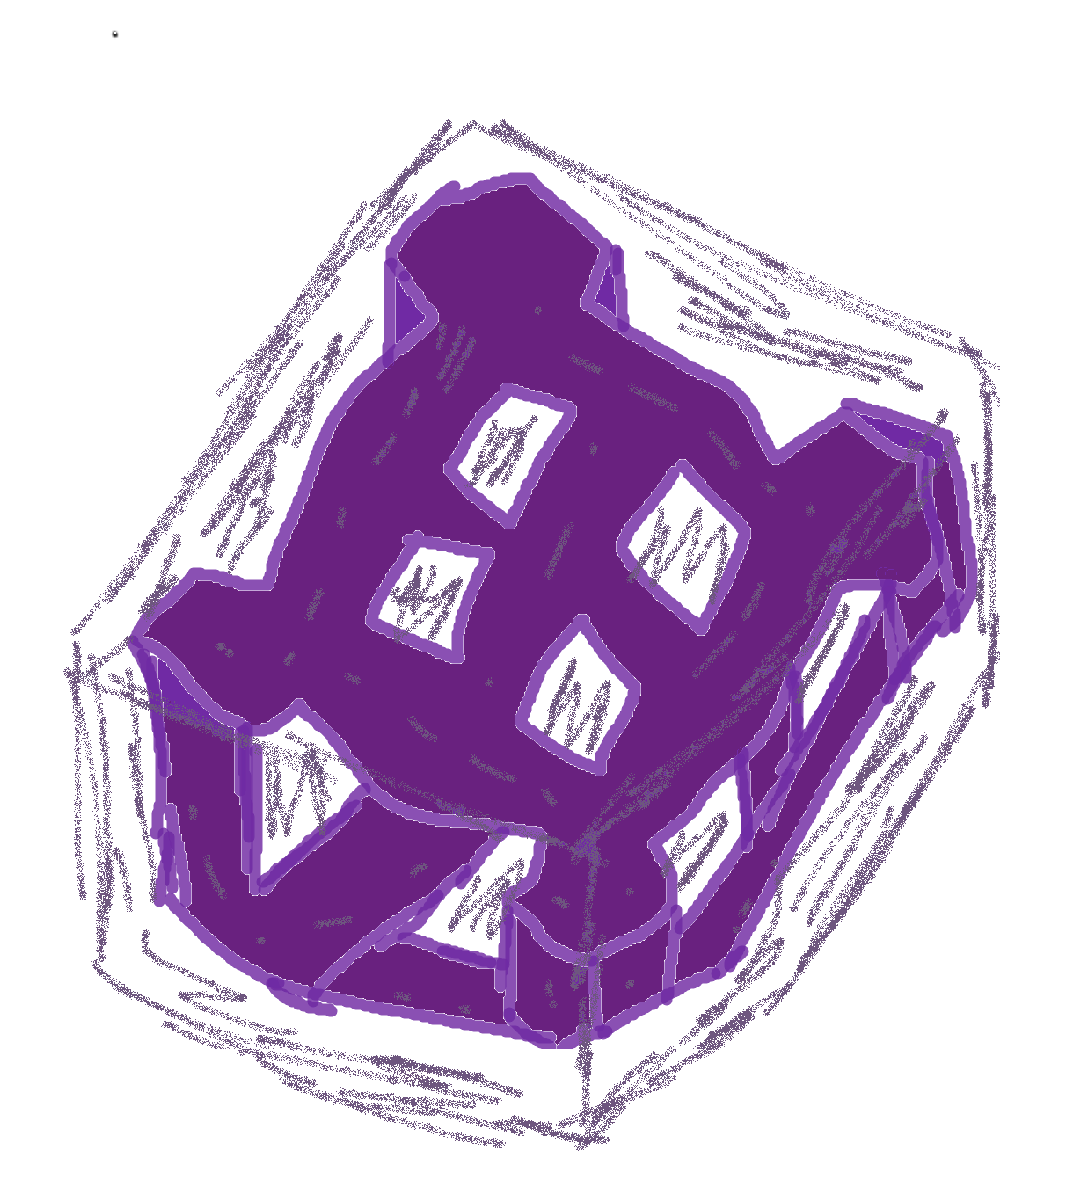
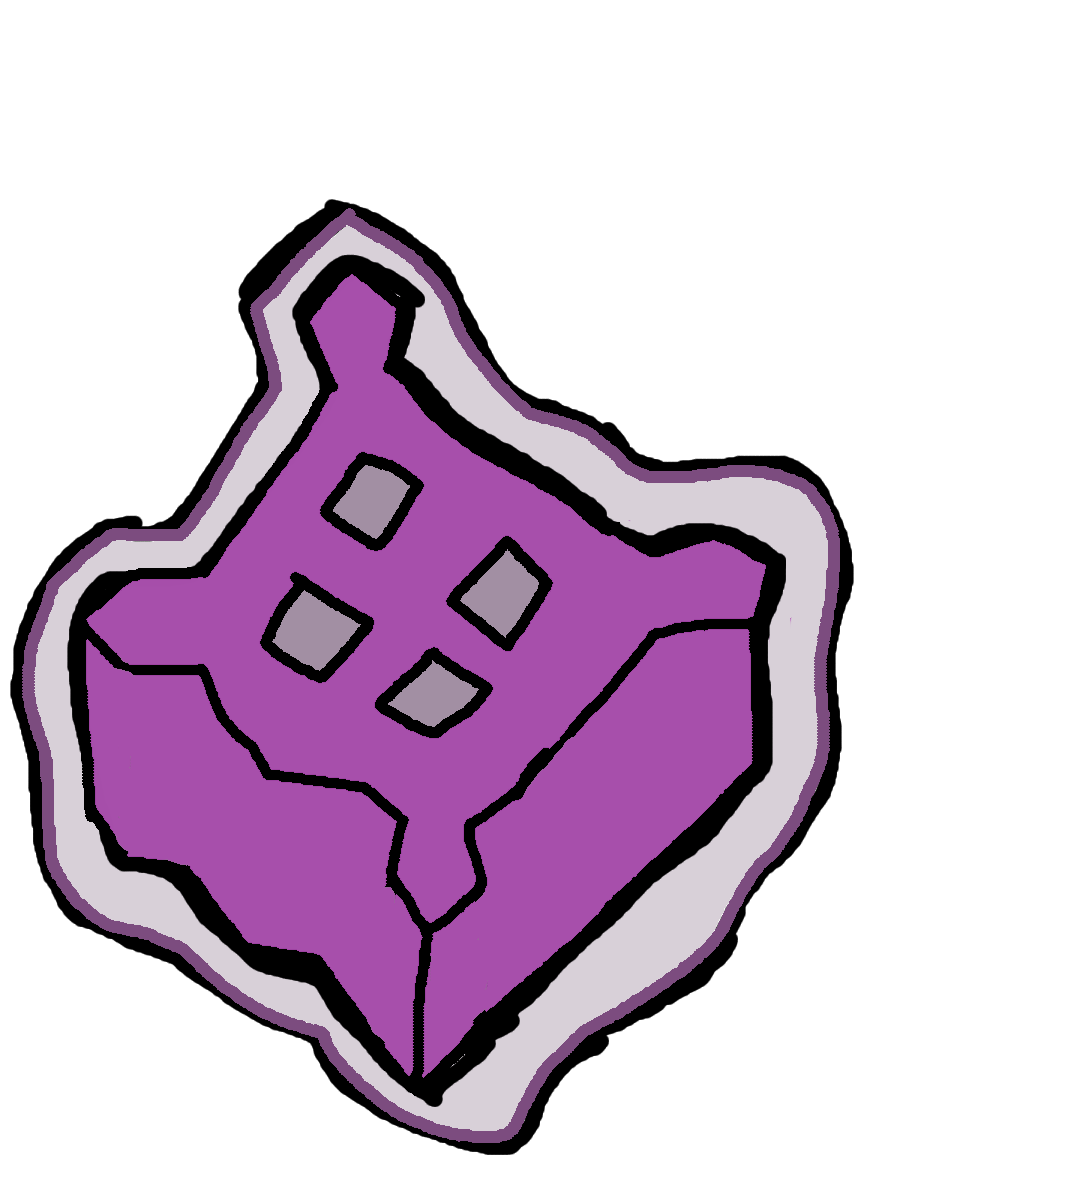
cube

diff --git a/src/main/java/com/awakened/AwakenedItemOverlay.java b/src/main/java/com/awakened/AwakenedItemOverlay.java
@@ -1,7 +1,5 @@
 package com.awakened;
 
-import java.awt.AlphaComposite;
-import java.awt.Composite;
 import java.awt.Graphics2D;
 import java.awt.Rectangle;
 import java.awt.image.BufferedImage;
@@ -21,10 +19,57 @@ public class AwakenedItemOverlay extends WidgetItemOverlay
 		showOnInventory();
 		showOnEquipment();
 		showOnBank();
-		cubeImage = ImageUtil.loadImageResource(
+
+		BufferedImage raw = ImageUtil.loadImageResource(
 			AwakenedItemOverlay.class,
 			"/com/awakened/assets/awakeners_cube.png"
 		);
+
+		cubeImage = cleanAndTrim(raw);
+	}
+
+	private static BufferedImage cleanAndTrim(BufferedImage image)
+	{
+		if (image == null)
+		{
+			return null;
+		}
+
+		int w = image.getWidth();
+		int h = image.getHeight();
+		int alphaThreshold = 64;
+		int minX = w, minY = h, maxX = 0, maxY = 0;
+
+		// Clean semi-transparent pixels: make them fully opaque or fully transparent
+		BufferedImage cleaned = new BufferedImage(w, h, BufferedImage.TYPE_INT_ARGB);
+		for (int y = 0; y < h; y++)
+		{
+			for (int x = 0; x < w; x++)
+			{
+				int argb = image.getRGB(x, y);
+				int alpha = (argb >> 24) & 0xFF;
+
+				if (alpha < alphaThreshold)
+				{
+					cleaned.setRGB(x, y, 0x00000000);
+				}
+				else
+				{
+					cleaned.setRGB(x, y, argb | 0xFF000000);
+					minX = Math.min(minX, x);
+					minY = Math.min(minY, y);
+					maxX = Math.max(maxX, x);
+					maxY = Math.max(maxY, y);
+				}
+			}
+		}
+
+		if (maxX < minX || maxY < minY)
+		{
+			return cleaned;
+		}
+
+		return cleaned.getSubimage(minX, minY, maxX - minX + 1, maxY - minY + 1);
 	}
 
 	@Override
@@ -41,9 +86,6 @@ public class AwakenedItemOverlay extends WidgetItemOverlay
 			return;
 		}
 
-		Composite original = graphics.getComposite();
-		graphics.setComposite(AlphaComposite.getInstance(AlphaComposite.SRC));
 		graphics.drawImage(cubeImage, bounds.x, bounds.y, bounds.width, bounds.height, null);
-		graphics.setComposite(original);
 	}
 }